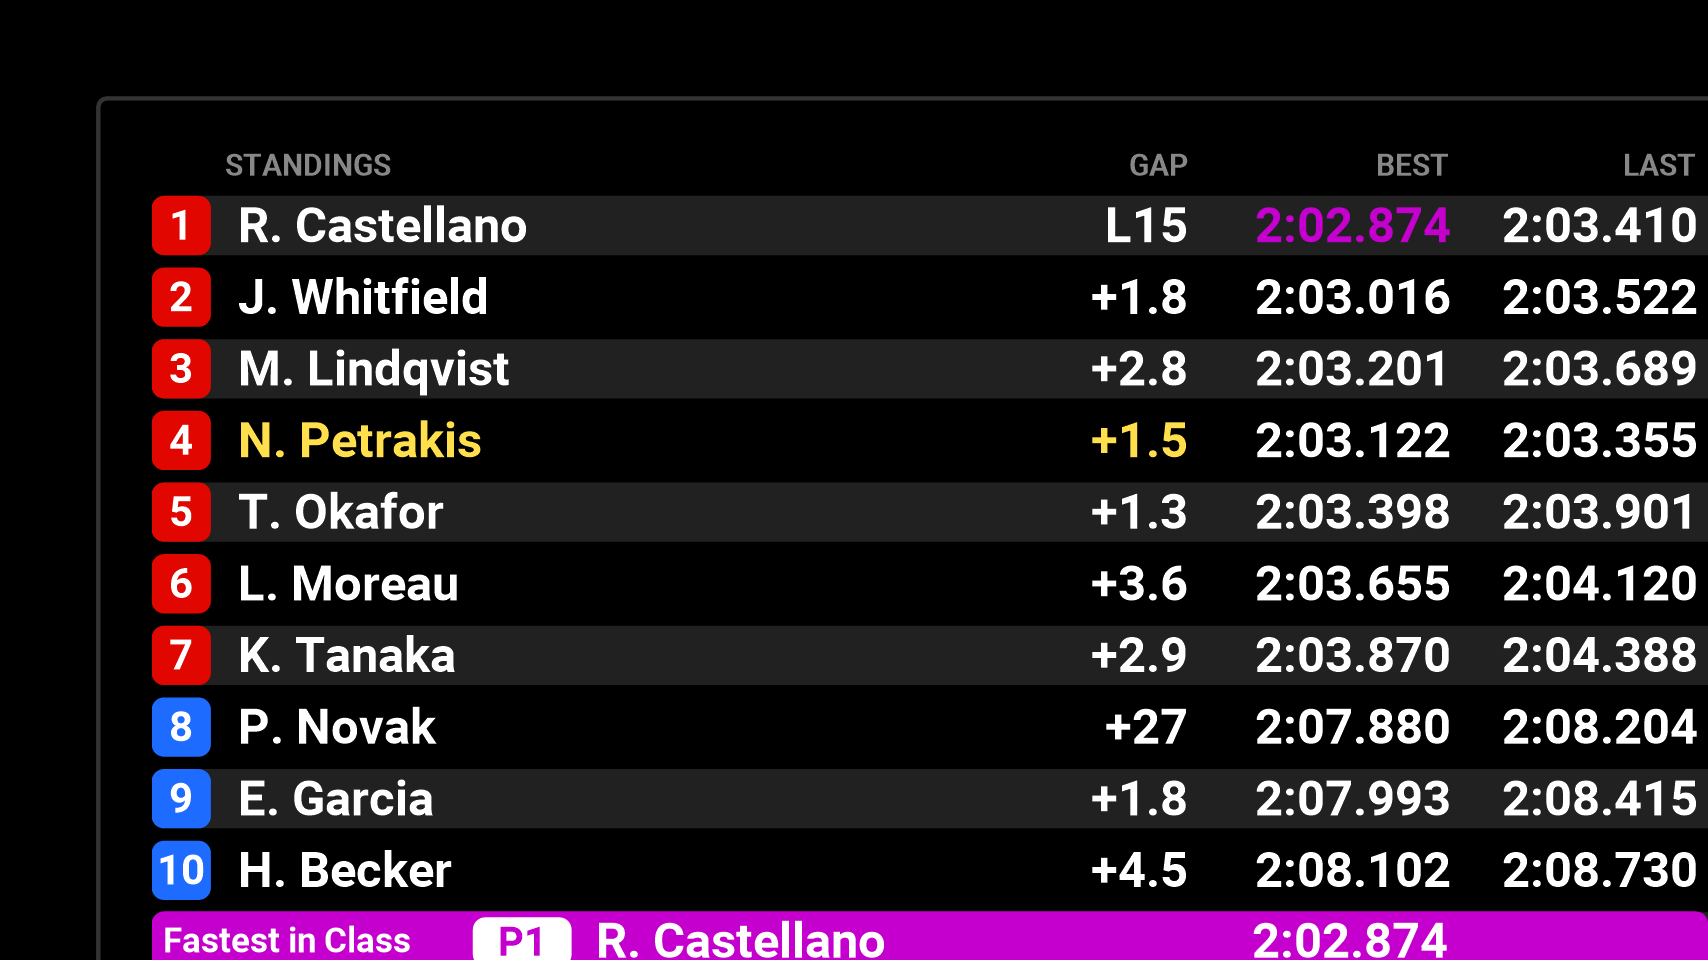
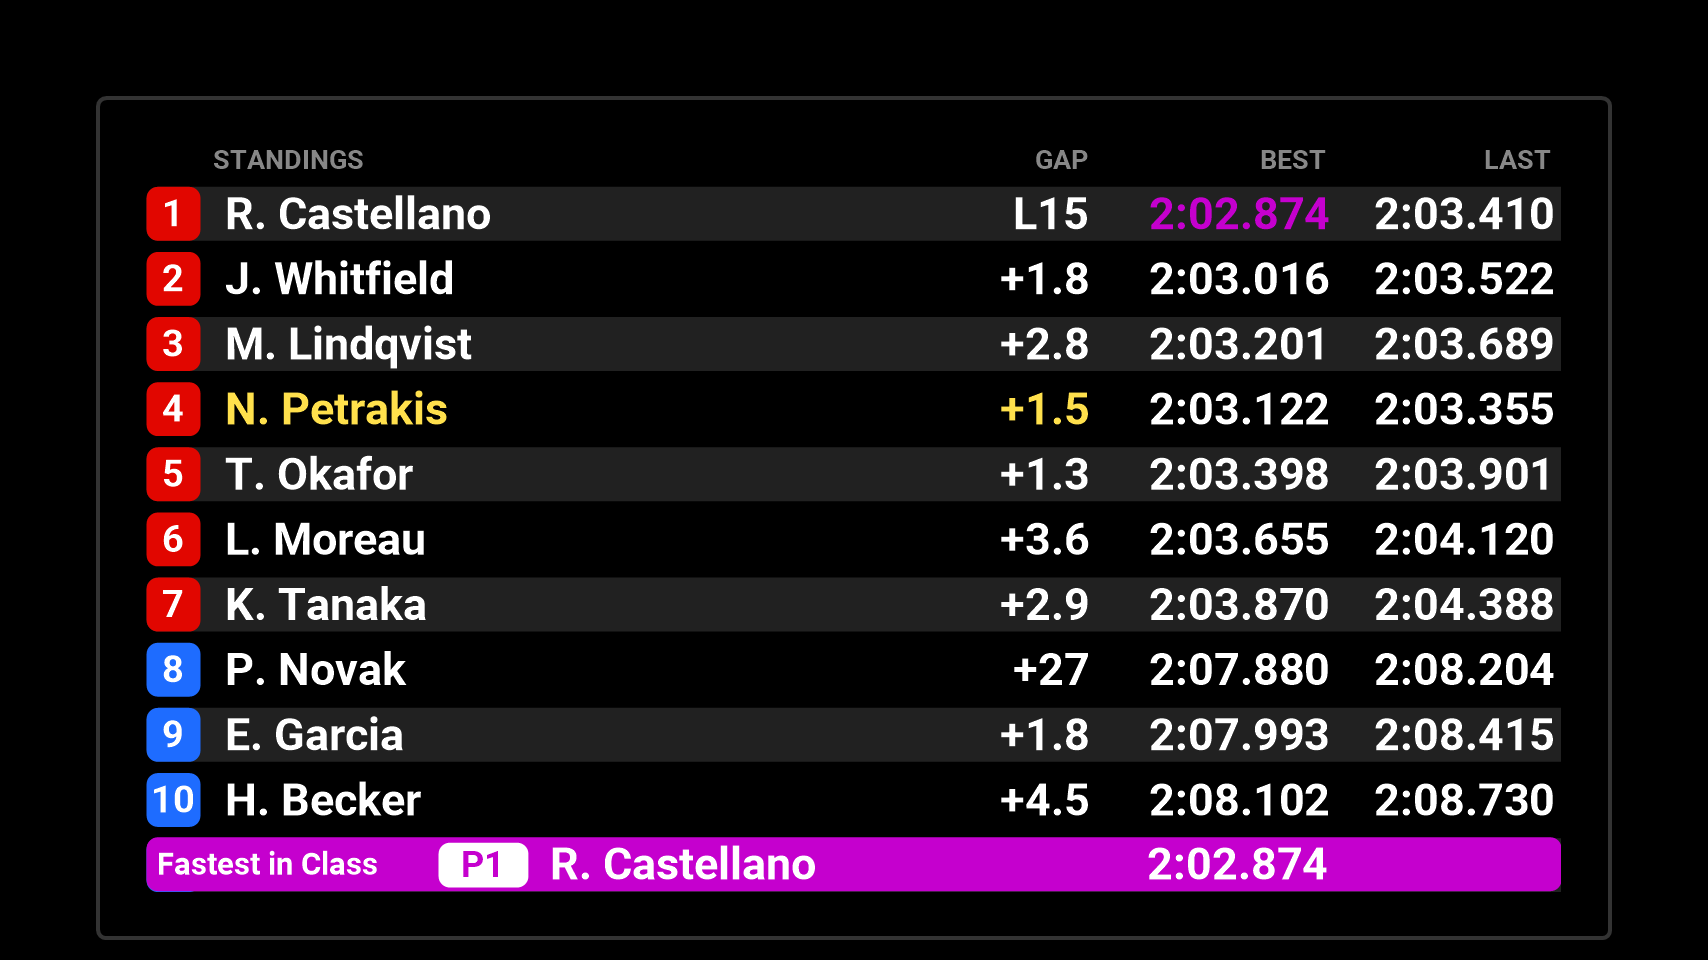
How to Submit Your Preset page; centred full-screen previews
- SUBMITTING.md: what a preset is, exporting it, the Submit a Preset form,
  what happens next, updating a preset and guidelines. Linked from the
  README and from Browse Presets in the plugin.
- README and the submission form: Export, Import and Browse Presets are at
  the top right of the Dash Pro page; the three parts in tab order (Pages &
  Layout, Lap Review, Alerts & Notifications); RotaryDialsSize in the file
  format; Lovely Dashboard logo.
- Default preset: the full-screen pages with a bar (Leaderboard, Damage,
  Map) re-rendered centred (the renderer now honours the widget's
  AutoSizeScale).

diff --git a/README.md b/README.md
@@ -1,5 +1,5 @@
 <p align="center">
-<img width="150" height="150" alt="Lovely Sim Racing" src="https://raw.githubusercontent.com/Lovely-Sim-Racing/lovely-car-classes/main/docs/images/lr-logo-small.png">
+<img width="150" height="150" alt="Lovely Sim Racing" src="https://raw.githubusercontent.com/Lovely-Sim-Racing/lovely-dashboard/main/docs/images/lr-team-icon.png">
 </p>
 
 <h1 align="center">Lovely Dash Pro Presets</h1>
@@ -14,12 +14,12 @@ Ready-made page setups for Lovely Dashboard Pro, shared by the community.<br>
 ## How to
 
 ### In the Lovely Plugin
-Open **Dash Pro > Pages & Layout** and click **Browse** to see every preset here, with screenshots. Pick one and click **Import**.
+Open **Dash Pro** and click **Browse Presets** (top right) to see every preset here, with screenshots. Pick one and click **Import**.
 
-A preset replaces the pages and layouts, the Alerts & Notifications settings and the Lap Review settings of whatever you have selected: All Devices, a device, a sim, a class or a single vehicle. Everything else stays as it is.
+A preset replaces the pages and layouts, the Lap Review settings and the Alerts & Notifications settings of whatever you have selected: All Devices, a device, a sim, a class or a single vehicle. Everything else stays as it is.
 
 ### By hand
-Download a preset's `preset.dashpro` file from the [presets](presets) folder, then click **Import** on the Pages & Layout tab and choose the file.
+Download a preset's `preset.dashpro` file from the [presets](presets) folder, then click **Import** (top right of the Dash Pro page) and choose the file.
 
 ## Presets
 Every preset has its own folder in `presets/`:
@@ -129,6 +129,7 @@ A `.dashpro` file is JSON on a single line, with one section per tab of the plug
   # EngineWarningOilLimit   (Int)    - Sims without warning lights: oil temperature limit in °C (130 by default, 0: off)
   # FlagsAlertEnabled       (Bool)   - Show Flags (a block over the gear for 3 s, then a thin bar across the top while the flag is out)
   # RotaryDialsEnabled      (Bool)   - Show the Rotary Dials labels and alerts
+  # RotaryDialsSize         (Int)    - 0: Strip, 1: Full Screen (the default)
   # RotaryDialsColors       (Int)    - 0: Normal, 1: Inverted
   # DamageAlertEnabled      (Bool)   - Show the Damage Alert
   # DamageAlertSize         (Int)    - 0: Strip, 1: Full Screen, 2: Block
@@ -155,12 +156,12 @@ Presets made before each session had its own Lap Review layout have one layout d
 
 Lap Review modules: `Lap Time`, `Lap Delta`, `Sectors`, `Sector Deltas`, `Position`, `Gaps`, `Fuel Used`, `Fuel Left`, `VE Used`, `VE Left`, `Fuel / VE Used`, `Tire Wear`, `Lap Validity`, `Top Speed` and `Blank` (empty).
 
-A preset has no device, sim, class or vehicle in it. It describes one setup: pages and layouts, Alerts & Notifications settings and Lap Review settings. Importing it replaces all three for the selected level.
+A preset has no device, sim, class or vehicle in it. It describes one setup: pages and layouts, Lap Review settings and Alerts & Notifications settings. Importing it replaces all three for the selected level.
 
 ## Contributing
-Sharing a preset takes a couple of minutes, and you don't need to know Git.
+Sharing a preset takes a couple of minutes, and you don't need to know Git. See **[How to Submit Your Preset](SUBMITTING.md)**.
 
-1. In the Lovely Plugin, set up your pages and click **Export** on the Pages & Layout tab.
+1. In the Lovely Plugin, set up your pages and click **Export** at the top right of the Dash Pro page.
 2. Open a new issue with the **[Submit a Preset](../../issues/new?template=submit-preset.yml)** form.
 3. Fill in a name and a short description, and attach your preset: zip the `.dashpro` file and drag the zip in (GitHub doesn't accept `.dashpro` files directly), or paste the file's contents.
 

diff --git a/SUBMITTING.md b/SUBMITTING.md
@@ -1,0 +1,65 @@
+<p align="center">
+<img width="150" height="150" alt="Lovely Sim Racing" src="https://raw.githubusercontent.com/Lovely-Sim-Racing/lovely-dashboard/main/docs/images/lr-team-icon.png">
+</p>
+
+<h1 align="center">How to Submit Your Preset</h1>
+
+<p align="center">
+Share your Lovely Dashboard Pro setup with everyone. It takes a couple of minutes, and you don't need to know Git.
+</p>
+
+---
+
+## What a preset is
+A preset is one Dash Pro setup, saved from the Lovely Plugin as a `.dashpro` file. It has three parts, one for each tab of the plugin's Dash Pro page:
+
+- **Pages & Layout**: every page, with its layout and modules
+- **Lap Review**: the sessions it shows in, and each session's layout
+- **Alerts & Notifications**: which alerts show, their size and colours
+
+A preset doesn't include a device, sim, class or vehicle. Whoever imports it chooses where it goes.
+
+## 1. Export it from the Lovely Plugin
+1. Open **Dash Pro** in the Lovely Plugin.
+2. Select the level whose setup you want to share: All Devices, a device, a sim, a class or a vehicle. The preset is exactly what that level shows.
+3. Click **Export** (top right, next to Import and Browse Presets) and save the `.dashpro` file.
+
+Before you export, check that:
+- Every page has a clear name (Race, Quali, Fuel...). People see the page names before they import.
+- Each page is on in the right sessions (Practice, Qualifying, Race).
+- You've tried it in a session, so nothing is missing or overlapping.
+
+## 2. Open the Submit a Preset form
+Open a new issue with the **[Submit a Preset](../../issues/new?template=submit-preset.yml)** form. You need a free GitHub account.
+
+## 3. Fill it in
+| Field | What to write |
+| --- | --- |
+| **Preset name** | A short name people will see in the plugin, for example `LMU Endurance` or `GT3 Sprint`. |
+| **Author** | The name to credit: you or your team. Your GitHub name is used if you leave it empty. |
+| **Description** | One or two sentences: what it's good for and what's on its pages. |
+| **Tags** | Optional, separated by commas: a sim (`LMU`, `ACC`, `iRacing`), a class (`GT3`, `Hypercar`), a race type (`Endurance`, `Sprint`) or a style (`Minimal`). Use `All Sims` if it isn't made for one sim. |
+| **Preset file** | Zip your `.dashpro` file and drag the zip in (GitHub doesn't accept `.dashpro` files directly). Or open the `.dashpro` file in Notepad and paste everything. |
+
+Tick the sharing box and submit.
+
+## 4. What happens next
+- We check that the preset imports and works with the current Lovely Plugin.
+- We make the screenshots for you: every page on the 854x480 Lovely Dashboard Pro, plus the Lap Review, with sample race data (Le Mans Ultimate at Spa).
+- We add it to the list, and it shows in **Browse Presets** in the plugin.
+- You get a reply on your issue when it's live, or if something needs fixing.
+
+## Updating your preset
+Submit it again with the same preset name and write **Update** in the description. We replace the old version, and the preset shows the new date.
+
+## Guidelines
+- Share your own work, or have its author's permission.
+- One setup per submission. For a sprint and an endurance version, submit two presets.
+- Keep names, descriptions and page names clean and in English.
+- Modules that need an add-on (for example **Virtual RPM - ATSR**, which needs ATSR Hub Evo) are fine. Mention it in the description.
+
+Presets are published under [CC BY-NC-SA 4.0](https://creativecommons.org/licenses/by-nc-sa/4.0/), like everything in this repository.
+
+---
+
+© 2026 by [Lovely Sim Racing](https://lsr.gg) is licensed under [CC BY-NC-SA 4.0](https://creativecommons.org/licenses/by-nc-sa/4.0/)
